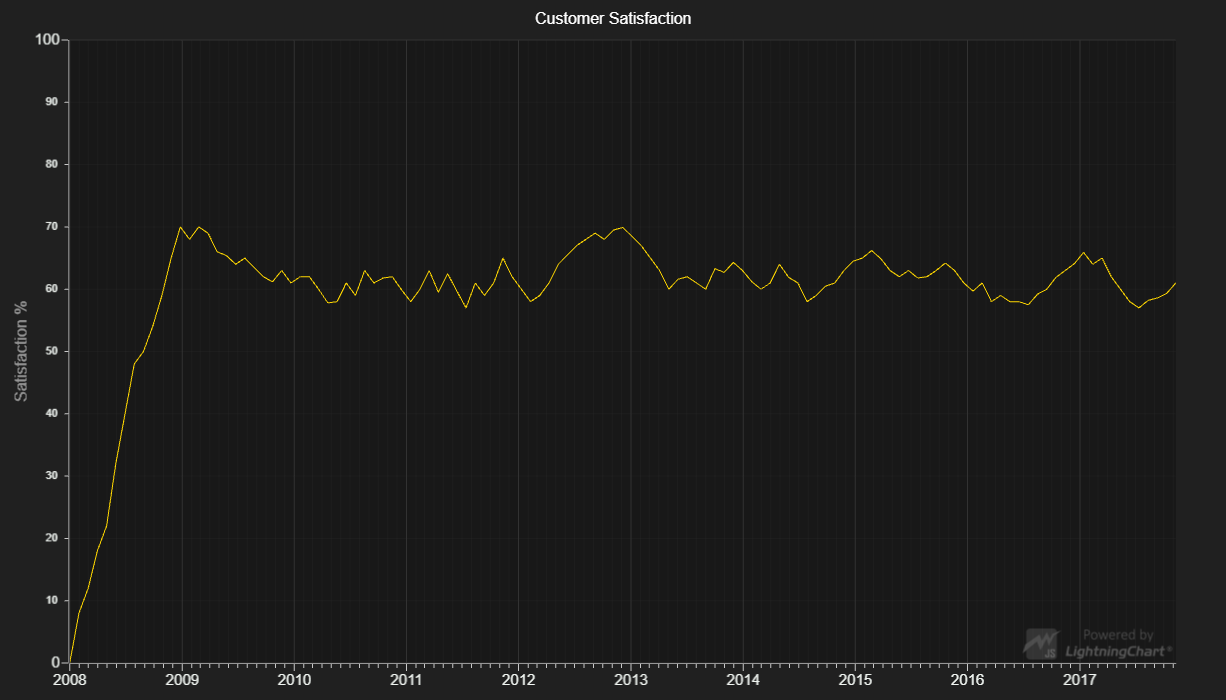
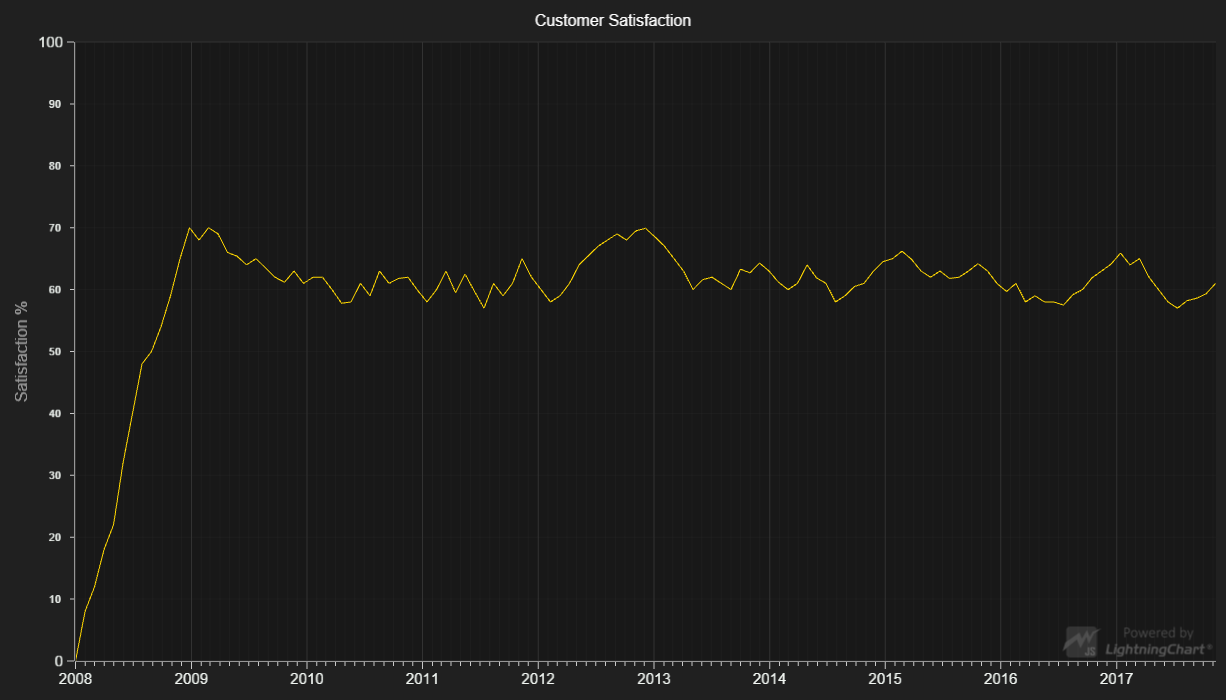
LCJS 3.0.0

diff --git a/src/index.js b/src/index.js
@@ -26,11 +26,8 @@ chart.getDefaultAxisX()
     )
 chart.setTitle('Customer Satisfaction')
 
-chart.setPadding({ right: '5' })
-
-// Add a progressive line series.
-// Using the DataPatterns object to select the horizontalProgressive pattern for the line series.
-const lineSeries = chart.addLineSeries({ dataPattern: DataPatterns.horizontalProgressive })
+// Add a line series.
+const lineSeries = chart.addLineSeries()
     .setName('Customer Satisfaction')
 
 // Generate some points using for each month
@@ -171,7 +168,7 @@ const satisfactionData = [
 lineSeries.add(satisfactionData.map((point) => ({ x: point.x * dataFrequency, y: point.y })))
 
 // Show the customized result table for each point
-lineSeries.setResultTableFormatter((builder, series, xValue, yValue) => {
+lineSeries.setCursorResultTableFormatter((builder, series, xValue, yValue) => {
     return builder
         .addRow('Customer Satisfaction')
         .addRow(series.axisX.formatValue(xValue))

diff --git a/README.md b/README.md
@@ -56,7 +56,7 @@ It is worth mentioning that big *DateTime*-intervals can produce severe precisio
 
 * [Axis tick strategies]
 * [XY cartesian chart]
-* [Progressive line series]
+* [Line series]
 
 
 ## Support
@@ -80,7 +80,7 @@ Direct developer email support can be purchased through a [Support Plan][4] or b
 © Arction Ltd 2009-2020. All rights reserved.
 
 
-[Axis tick strategies]: https://www.arction.com/lightningchart-js-api-documentation/v2.2.0/globals.html#axistickstrategies
-[XY cartesian chart]: https://www.arction.com/lightningchart-js-api-documentation/v2.2.0/classes/chartxy.html
-[Progressive line series]: https://www.arction.com/lightningchart-js-api-documentation/v2.2.0/classes/progressivelineseries.html
+[Axis tick strategies]: https://www.arction.com/lightningchart-js-api-documentation/v3.0.0/globals.html#axistickstrategies
+[XY cartesian chart]: https://www.arction.com/lightningchart-js-api-documentation/v3.0.0/classes/chartxy.html
+[Line series]: https://www.arction.com/lightningchart-js-api-documentation/v3.0.0/classes/lineseries.html
 
